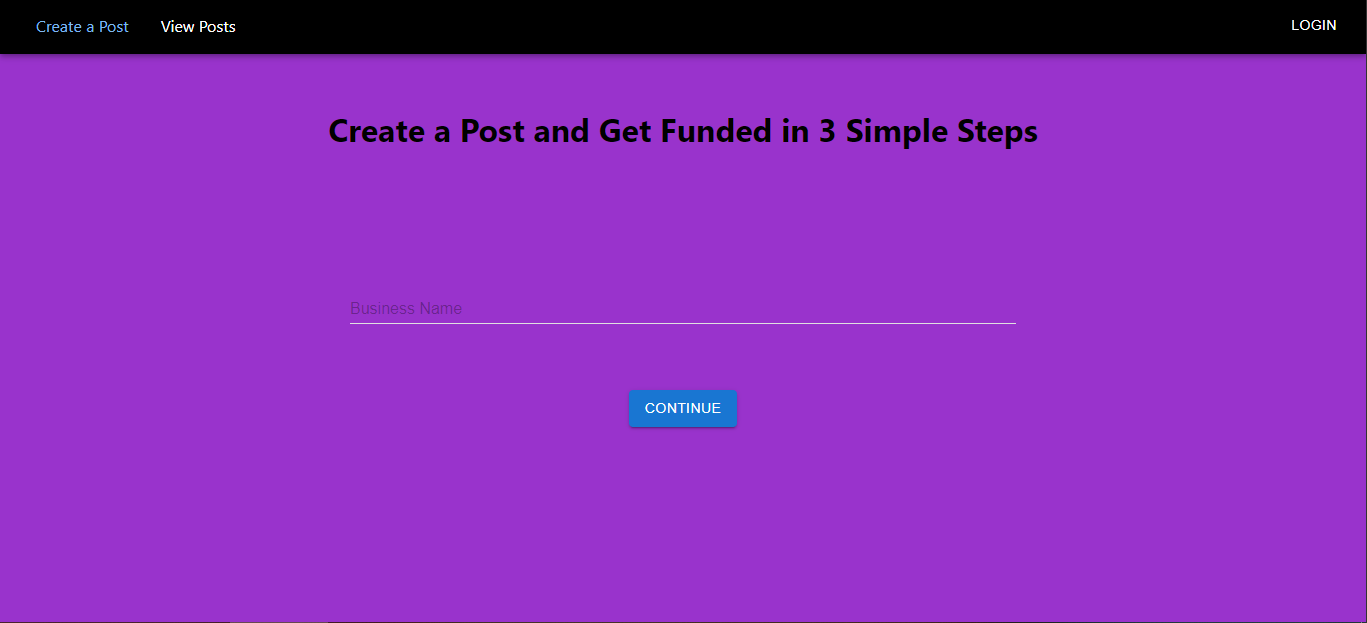
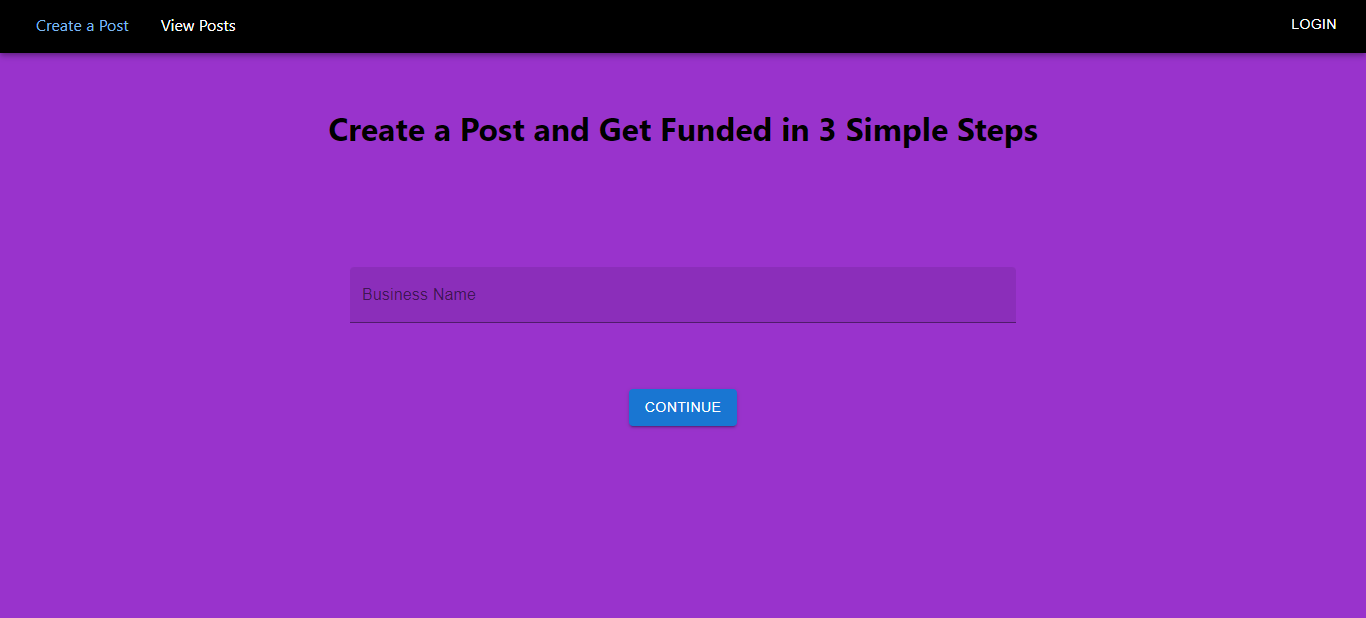
Fixing console errors and updating README.md

diff --git a/client/src/views/formBusinessInsp.jsx b/client/src/views/formBusinessInsp.jsx
@@ -1,10 +1,10 @@
 import React from 'react';
-import MuiThemeProvider from 'material-ui/styles/MuiThemeProvider';
-import TextField from 'material-ui/TextField';
+import { MuiThemeProvider, createTheme } from '@material-ui/core/styles';
+import TextField from '@material-ui/core/TextField';
 import Button from '@mui/material/Button';
 import '../content/formStyle.css';
 
-class FormBusinessDesc extends React.Component {
+class FormBusinessInsp extends React.Component {
     continue = e => {
         e.preventDefault();
         this.props.nextStep();
@@ -17,19 +17,23 @@ class FormBusinessDesc extends React.Component {
 
     render() { 
         const { values, handleChange } = this.props;
+        const theme = createTheme()
 
         return ( 
-            <MuiThemeProvider>
+            <MuiThemeProvider theme={theme}>
                     <div className='form-header'>
                         <h1>Create a Post and Get Funded in 3 Simple Steps</h1>
                     </div>
                     <div className="form-field">
                         <TextField
-                            hintText="Enter Your Business Inspiration"
-                            floatingLabelText="Business Inspiration"
+                            variant="filled"
+                            color="secondary"
+                            placeholder="Enter Your Business Inspiration"
+                            label="Business Inspiration"
                             onChange={handleChange('businessInspiration')}
-                            defaultValue={values.businessInspiration}
+                            value={values.businessInspiration}
                             style={styles.formTextField}
+                            variant="filled"
                         />
                     </div>
                     <div className="form-button">
@@ -59,4 +63,4 @@ const styles = {
     }
 }
  
-export default FormBusinessDesc;
+export default FormBusinessInsp;

diff --git a/client/src/views/formBusinessDesc.jsx b/client/src/views/formBusinessDesc.jsx
@@ -1,6 +1,6 @@
 import React from 'react';
-import MuiThemeProvider from 'material-ui/styles/MuiThemeProvider';
-import TextField from 'material-ui/TextField';
+import { MuiThemeProvider, createTheme } from '@material-ui/core/styles';
+import TextField from '@material-ui/core/TextField';
 import Button from '@mui/material/Button';
 import '../content/formStyle.css';
 
@@ -17,19 +17,23 @@ class FormBusinessDesc extends React.Component {
 
     render() { 
         const { values, handleChange } = this.props;
+        const theme = createTheme()
 
         return ( 
-            <MuiThemeProvider>
+            <MuiThemeProvider theme={theme}>
                     <div className='form-header'>
                         <h1>Create a Post and Get Funded in 3 Simple Steps</h1>
                     </div>
                     <div className="form-field">
                         <TextField
-                            hintText="Enter Your Business Description"
-                            floatingLabelText="Business Description"
+                            variant="filled"
+                            color="secondary"
+                            placeholder="Enter Your Business Description"
+                            label="Business Description"
                             onChange={handleChange('businessDescription')}
-                            defaultValue={values.businessDescription}
+                            value={values.businessDescription}
                             style={styles.formTextField}
+                            variant="filled"
                         />
                     </div>
                     <div className="form-button">

diff --git a/client/src/views/formBusinessName.jsx b/client/src/views/formBusinessName.jsx
@@ -1,6 +1,6 @@
 import React from 'react';
-import MuiThemeProvider from 'material-ui/styles/MuiThemeProvider';
-import TextField from 'material-ui/TextField';
+import { MuiThemeProvider, createTheme } from '@material-ui/core/styles';
+import TextField from '@material-ui/core/TextField';
 import Button from '@mui/material/Button';
 import '../content/formStyle.css';
 
@@ -12,18 +12,21 @@ class FormBusinessName extends React.Component {
 
     render() { 
         const { values, handleChange } = this.props;
-
+        const theme = createTheme()
+        
         return ( 
-            <MuiThemeProvider>
+            <MuiThemeProvider theme={theme}>
                     <div className='form-header'>
                         <h1>Create a Post and Get Funded in 3 Simple Steps</h1>
                     </div>
                     <div className="form-field">
                         <TextField
-                            hintText="Enter Your Business Name"
-                            floatingLabelText="Business Name"
+                            variant="filled"
+                            color="secondary"
+                            placeholder="Enter Your Business Name"
+                            label="Business Name"
                             onChange={handleChange('businessName')}
-                            defaultValue={values.businessName}
+                            value={values.businessName}
                             style={styles.formTextField}
                         />
                     </div>

diff --git a/client/src/views/postForm.jsx b/client/src/views/postForm.jsx
@@ -2,7 +2,7 @@ import React from "react";
 import FormBusinessDesc from "./formBusinessDesc";
 import FormBusinessName from './formBusinessName';
 import FormBusinessInsp from './formBusinessInsp';
-import Confirm from './confirm';
+import FormConfirm from './confirm';
 import SuccessPage from "./success";
 
 class PostForm extends React.Component {
@@ -68,7 +68,7 @@ class PostForm extends React.Component {
                 )
             case 4: 
                 return (
-                    <Confirm
+                    <FormConfirm
                         nextStep={this.nextStep}
                         prevStep={this.prevStep}
                         values={values}

diff --git a/client/src/views/confirm.jsx b/client/src/views/confirm.jsx
@@ -5,7 +5,7 @@ import Button from '@mui/material/Button';
 import '../content/formStyle.css';
 import { processForm } from '../controllers/processForm.ts';
 
-class FormBusinessName extends React.Component {
+class FormConfirm extends React.Component {
     continue = e => {
         e.preventDefault();
 
@@ -84,4 +84,4 @@ const styles = {
     }
 }
  
-export default FormBusinessName;
+export default FormConfirm;

diff --git a/README.md b/README.md
@@ -39,9 +39,17 @@ The /save-form-values API route is a POST REST API that will save the post value
 The response for this REST API is a string 'Success' if the save crud operation is performed successfully.
 
 ## Distinct design decisions with screenshots
+
+When application first opens, it renders the PostForm component. PostForm consist of a parent state that holds the step state that is used to determine which step of the form to render.
+
+The first step is entering the Business Name. That is rendered by FormBusinessName component, second step is entering business description that is rendered by FormBusinessDesc, and the third step is entering the business inspiration which is rendered by FormBusinessInsp component. All three components are shown in the below screenshots.
 ![alt text](https://github.com/aidapira/kickstarter_platform_app/blob/master/create_post1.PNG?raw=true)
 ![alt text](https://github.com/aidapira/kickstarter_platform_app/blob/master/create_post2.PNG?raw=true)
 ![alt text](https://github.com/aidapira/kickstarter_platform_app/blob/master/create_post3.PNG?raw=true)
+
+Since the values are stored in parent component's state variable, on clicking on the Back button, the textfields will be prepopulated by the previously entered values.
+Once user enters all values, the fourth step is confirmation. 
+
 ![alt text](https://github.com/aidapira/kickstarter_platform_app/blob/master/create_post4.PNG?raw=true)
 ![alt text](https://github.com/aidapira/kickstarter_platform_app/blob/master/post_confirmation.PNG?raw=true)
 ![alt text](https://github.com/aidapira/kickstarter_platform_app/blob/master/view_posts.PNG?raw=true)
@@ -50,3 +58,6 @@ The response for this REST API is a string 'Success' if the save crud operation 
 ![alt text](https://github.com/aidapira/kickstarter_platform_app/blob/master/stripe_checkout_page.PNG?raw=true)
 ![alt text](https://github.com/aidapira/kickstarter_platform_app/blob/master/cancel_payment_page.PNG?raw=true)
 ![alt text](https://github.com/aidapira/kickstarter_platform_app/blob/master/payment_success_page.PNG?raw=true)
+
+## URL of hosted application
+https://kickstarter-platform-app.herokuapp.com/create-posts
